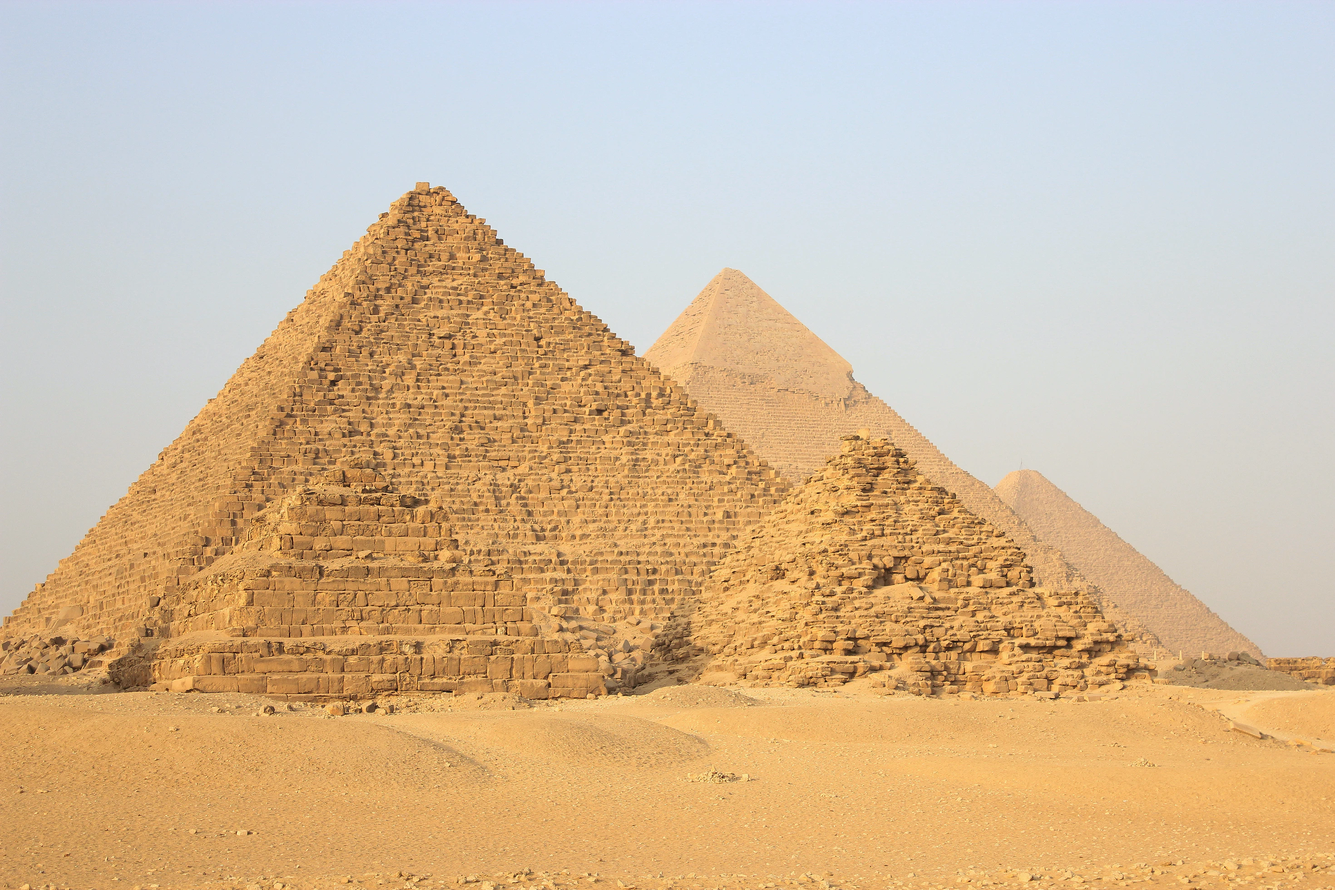
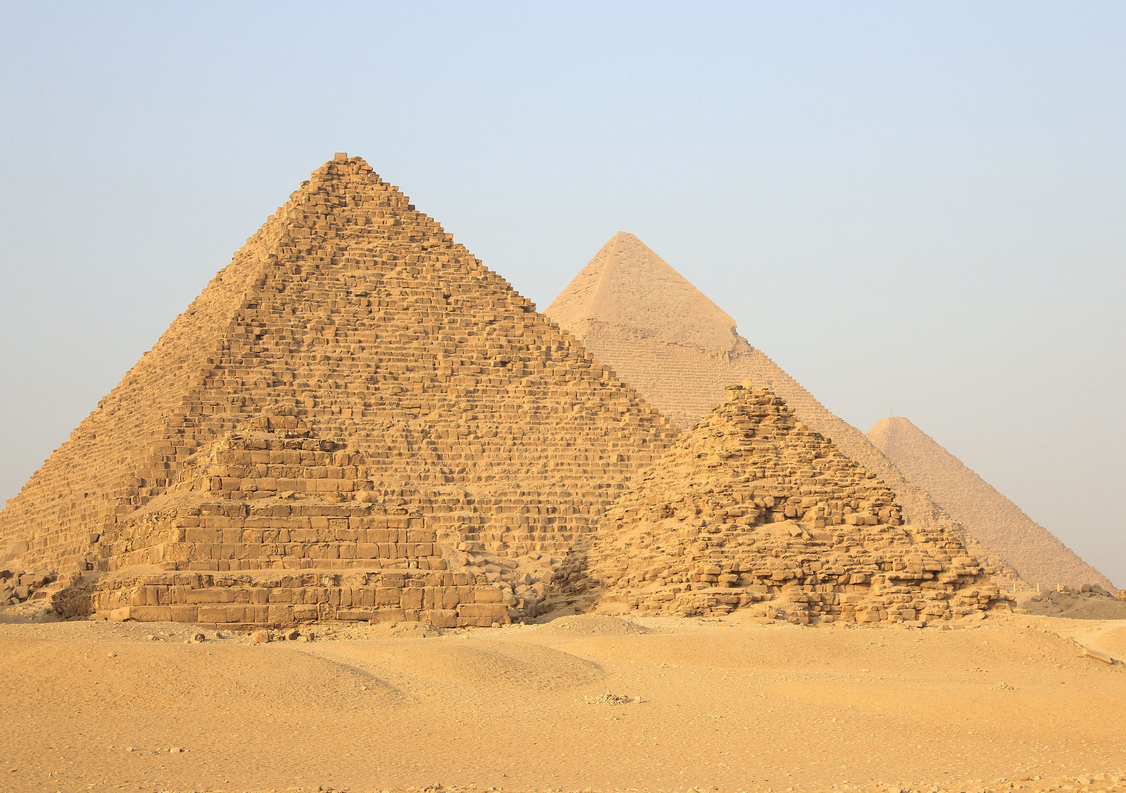
Bilder und Layout
Bilder News normiert und für Web optimiert + kleine Verbesserungen am News-Grid-Layout

Changed region(s): [[0.0, 0.1854, 1.0, 1.0], [0.8383, 0.8341, 0.8694, 0.865]]

diff --git a/index.html b/index.html
@@ -52,17 +52,15 @@
             <!-- svg (brief) einbinden-->
             <a href="mailto:pink@radio.ch"><img src="images/brief.svg" class="brief-front"></a>
             <!-- svg (telefon) einbinden-->
-            <a href="https://wa.me/41791771988"><img src="images/whatsapp.svg" class="whatsapp-front"></a>
+            <a href="https://wa.me/41791771988" target="_blank"><img src="images/whatsapp.svg" class="whatsapp-front"></a>
         </div>
     </header>
 
     <main>
         <!-- Text Startseite -->
         <div class="text-startseite">
-            <h1>News</h1>
-            <h2>Hier kommt ein Text zur Hauptseite</h2>
-            <h2>Hier kommt ein Text zur Hauptseite</h2>
-            <h2>Hier kommt ein Text zur Hauptseite</h2>
+            <h1>Pink News</h1>
+            <h3>Die wichigsten News aus der Region</h3>
         </div>
         <!-- Beginn News-Beiträge -->
         <section>
@@ -119,10 +117,8 @@
         </div>
 
         <div class="text-startseite">
-            <h1>Eventss</h1>
-            <h2>Hier kommt ein Text zu den Events</h2>
-            <h2>Hier kommt ein Text zu den Event</h2>
-            <h2>Hier kommt ein Text zu den Event</h2>
+            <h1>Pink Events</h1>
+            <h3>Kommende Events in der Region</h3>
         </div>
         <!-- Beginn Event-Beiträge -->
         <!-- Slideshow -->
@@ -152,24 +148,27 @@
                 <a href="https://www.fhgr.ch" target="_blank" class="button">zum Event</a>
             </article>
             <article class="news-artikel-hintergrund artikel-2">
-                <img src="images/news1.png" alt="News-1" width="280" height="100">
-                <h2 class="titel-hover">Event</h2>
-                <p>Hier kommt der Lead. Hier steht dann ganz grob um was es bei dem Event geht,
-                    sodass die Leute dann unten auf den Button clicken, damit sie weiterlesen können.</p>
+                <img src="images/streetfood.png" alt="News-1" width="280" height="100">
+                <h2 class="titel-hover">Streetfood Festival</h2>
+                <p>Lokale Food-Trucks präsentieren eine bunte Auswahl von herzhaften Leckerbissen bis zu süßen
+                    Versuchungen. Ein Fest für alle Sinne, das die Straßen mit köstlichen Aromen erfüllt – ein
+                    unvergessliches kulinarisches Erlebnis!.</p>
                 <a href="https://www.fhgr.ch" target="_blank" class="button">zum Event</a>
             </article>
             <article class="news-artikel-hintergrund artikel-3">
-                <img src="images/news1.png" alt="News-1" width="280" height="100">
-                <h2 class="titel-hover">Event</h2>
-                <p>Hier kommt der Lead. Hier steht dann ganz grob um was es bei dem Event geht,
-                    sodass die Leute dann unten auf den Button clicken, damit sie weiterlesen können.</p>
+                <img src="images/konzert.png" alt="News-1" width="280" height="100">
+                <h2 class="titel-hover">Pink Konzert</h2>
+                <p>Erlebe die Hits von Pink Radio live! Ein Konzert voller mitreißender Rhythmen und berührender
+                    Melodien. Tauche ein in eine Nacht voller unvergesslicher Klangerlebnisse. Sei dabei und schaffe
+                    musikalische Erinnerungen!</p>
                 <a href="https://www.fhgr.ch" target="_blank" class="button">zum Event</a>
             </article>
             <article class="news-artikel-hintergrund artikel-4">
-                <img src="images/news1.png" alt="News-1" width="280" height="100">
-                <h2 class="titel-hover">Event</h2>
-                <p>Hier kommt der Lead. Hier steht dann ganz grob um was es bei dem Event geht,
-                    sodass die Leute dann unten auf den Button clicken, damit sie weiterlesen können.</p>
+                <img src="images/weihnachtsmarkt.png" alt="News-1" width="280" height="100">
+                <h2 class="titel-hover">Weihnachtsmarkt</h2>
+                <p>Tauche ein in festliche Stimmung! Unser Weihnachtsmarkt verzaubert mit Leckereien, handgefertigten
+                    Schätzen und gemütlicher Atmosphäre. Genieße Glühwein, erlebe festliche Freude und schaffe
+                    unvergessliche Momente.</p>
                 <a href="https://www.fhgr.ch" target="_blank" class="button">zum Event</a>
             </article>
         </section>

diff --git a/ueber-uns.html b/ueber-uns.html
@@ -52,7 +52,7 @@
             <!-- svg (brief) einbinden-->
             <a href="mailto:pink@radio.ch"><img src="images/brief.svg" class="brief-front"></a>
             <!-- svg (telefon) einbinden-->
-            <a href="https://wa.me/41791771988"><img src="images/whatsapp.svg" class="whatsapp-front"></a>
+            <a href="https://wa.me/41791771988" target="_blank"><img src="images/whatsapp.svg" class="whatsapp-front"></a>
         </div>
     </header>
 
@@ -72,8 +72,8 @@
                         <img src="images/portrait-1.png" alt="News-1" class="original-bild">
                         <img src="images/portrait-1-nase.png" alt="News-1" class="hover-bild">
                     </div>
-                    <h2 class="name-zentrieren">Name</h2>
-                    <p class="funktion-zentrieren">Funktion</p>
+                    <h2 class="name-zentrieren">Nathalie Buser</h2>
+                    <p class="funktion-zentrieren">Programmleiterin</p>
                 </a>
             </article>
             <article class="mitarbeiter">
@@ -82,8 +82,8 @@
                         <img src="images/portrait-2.png" alt="News-1" class="original-bild">
                         <img src="images/portrait-2-hut.png" alt="News-1" class="hover-bild">
                     </div>
-                    <h2 class="name-zentrieren">Name</h2>
-                    <p class="funktion-zentrieren">Funktion</p>
+                    <h2 class="name-zentrieren">Michael Fischer</h2>
+                    <p class="funktion-zentrieren">Redaktionsleiter</p>
                 </a>
             </article>
             <article class="mitarbeiter">
@@ -92,8 +92,8 @@
                         <img src="images/portrait-3.png" alt="News-1" class="original-bild">
                         <img src="images/portrait-3-schnauz.png" alt="News-1" class="hover-bild">
                     </div>
-                    <h2 class="name-zentrieren">Name</h2>
-                    <p class="funktion-zentrieren">Funktion</p>
+                    <h2 class="name-zentrieren">Andreas Müller</h2>
+                    <p class="funktion-zentrieren">Musikredaktor</p>
                 </a>
             </article>
             <article class="mitarbeiter">
@@ -124,6 +124,36 @@
                     </div>
                     <h2 class="name-zentrieren">Name</h2>
                     <p class="funktion-zentrieren">Funktion</p>
+                </a>
+            </article>
+            <article class="mitarbeiter">
+                <a href="ueber-mich.html" class="mitarbeiter-link">
+                    <div class="rote-nase-hovern">
+                        <img src="images/portrait-3.png" alt="News-1" class="original-bild">
+                        <img src="images/portrait-3-schnauz.png" alt="News-1" class="hover-bild">
+                    </div>
+                    <h2 class="name-zentrieren">Andreas Müller</h2>
+                    <p class="funktion-zentrieren">Musikredaktor</p>
+                </a>
+            </article>
+            <article class="mitarbeiter">
+                <a href="ueber-mich.html" class="mitarbeiter-link">
+                    <div class="rote-nase-hovern">
+                        <img src="images/portrait-3.png" alt="News-1" class="original-bild">
+                        <img src="images/portrait-3-schnauz.png" alt="News-1" class="hover-bild">
+                    </div>
+                    <h2 class="name-zentrieren">Andreas Müller</h2>
+                    <p class="funktion-zentrieren">Musikredaktor</p>
+                </a>
+            </article>
+            <article class="mitarbeiter">
+                <a href="ueber-mich.html" class="mitarbeiter-link">
+                    <div class="rote-nase-hovern">
+                        <img src="images/portrait-3.png" alt="News-1" class="original-bild">
+                        <img src="images/portrait-3-schnauz.png" alt="News-1" class="hover-bild">
+                    </div>
+                    <h2 class="name-zentrieren">Andreas Müller</h2>
+                    <p class="funktion-zentrieren">Musikredaktor</p>
                 </a>
             </article>
         </section>

diff --git a/events.html b/events.html
@@ -52,7 +52,8 @@
             <!-- svg (brief) einbinden-->
             <a href="mailto:pink@radio.ch"><img src="images/brief.svg" class="brief-front"></a>
             <!-- svg (telefon) einbinden-->
-            <a href="https://wa.me/41791771988"><img src="images/whatsapp.svg" class="whatsapp-front"></a>
+            <a href="https://wa.me/41791771988" target="_blank"><img src="images/whatsapp.svg"
+                    class="whatsapp-front"></a>
         </div>
     </header>
 
@@ -144,24 +145,28 @@
 
         <section>
             <article class="news-artikel-hintergrund">
-                <img src="images/news1.png" alt="News-1" width="280" height="100">
-                <h2 class="titel-hover">Event</h2>
-                <p>Hier kommt der Lead. Hier steht dann ganz grob um was es in dem Artikel geht,
-                    sodass die Leute dann unten auf den Button clicken, damit sie weiterlesen können.</p>
+                <img src="images/streetfood.png" alt="News-1" width="280" height="100">
+                <h2 class="titel-hover">Streetfood Festival</h2>
+                <p>
+                    Lokale Food-Trucks präsentieren eine bunte Auswahl von herzhaften Leckerbissen bis zu süßen
+                    Versuchungen. Ein Fest für alle Sinne, das die Straßen mit köstlichen Aromen erfüllt – ein
+                    unvergessliches kulinarisches Erlebnis!</p>
                 <a href="event.html" class="button">zum Event</a>
             </article>
             <article class="news-artikel-hintergrund">
-                <img src="images/news1.png" alt="News-1" width="280" height="100">
-                <h2 class="titel-hover">Event</h2>
-                <p>Hier kommt der Lead. Hier steht dann ganz grob um was es in dem Artikel geht,
-                    sodass die Leute dann unten auf den Button clicken, damit sie weiterlesen können.</p>
+                <img src="images/konzert.png" alt="News-1" width="280" height="100">
+                <h2 class="titel-hover">Pink Konzert</h2>
+                <p>Erlebe die Hits von Pink Radio live! Ein Konzert voller mitreißender Rhythmen und berührender
+                    Melodien. Tauche ein in eine Nacht voller unvergesslicher Klangerlebnisse. Sei dabei und schaffe
+                    musikalische Erinnerungen!</p>
                 <a href="event.html" class="button">zum Event</a>
             </article>
             <article class="news-artikel-hintergrund">
-                <img src="images/news1.png" alt="News-1" width="280" height="100">
-                <h2 class="titel-hover">Event</h2>
-                <p>Hier kommt der Lead. Hier steht dann ganz grob um was es in dem Artikel geht,
-                    sodass die Leute dann unten auf den Button clicken, damit sie weiterlesen können.</p>
+                <img src="images/weihnachtsmarkt.png" alt="News-1" width="280" height="100">
+                <h2 class="titel-hover">Weihnachtsmarkt</h2>
+                <p>Tauche ein in festliche Stimmung! Unser Weihnachtsmarkt verzaubert mit Leckereien, handgefertigten
+                    Schätzen und gemütlicher Atmosphäre. Genieße Glühwein, erlebe festliche Freude und schaffe
+                    unvergessliche Momente.</p>
                 <a href="event.html" class="button">zum Event</a>
             </article>
             <article class="news-artikel-hintergrund">

diff --git a/js/news.js b/js/news.js
@@ -52,10 +52,9 @@ document.addEventListener("DOMContentLoaded", function() {
         <a href="artikel.html" class="button">zum Artikel</a>
       </article>
       <article class="news-artikel-hintergrund">
-        <img src="images/news1.png" alt="News-1" width="280" height="100">
-        <h2 class="titel-hover">Schlagzeile</h2>
-        <p>Hier kommt der Lead. Hier steht dann ganz grob um was es in dem Artikel geht,
-            sodass die Leute dann unten auf den Button clicken, damit sie weiterlesen können.</p>
+        <img src="images/shopping.png" alt="News-1" width="280" height="100">
+        <h2 class="titel-hover">Der Boom des Online-Shoppings</h2>
+        <p>Der Trend zum Online-Shopping erreicht immer neue Höhen, da Verbraucher bequeme Einkaufsmöglichkeiten von zu Hause aus schätzen.</p>
         <a href="artikel.html" class="button">zum Artikel</a>
       </article>
         `;

diff --git a/css/style.css b/css/style.css
@@ -26,7 +26,7 @@ h2 {
 }
 
 h3 {
-    font: 1em;
+    font-size: 1.5em;
     ;
 }
 
@@ -238,7 +238,7 @@ main {
 
 /* Abstand zwischen Startseiten-Text und News-Beiträgen */
 .text-startseite {
-    margin-bottom: 60px;
+    margin-bottom: 30px;
 }
 
 /* mehr-laden Button zentrieren */
@@ -455,7 +455,8 @@ main {
     row-gap: 30px;
     column-gap: 30px;
     box-sizing: border-box;
-    padding: 20px;
+    padding-top: 30px;
+    padding-bottom: 30px;
 }
 
 /* Styling Dropdown-Menu */

diff --git a/artikel.html b/artikel.html
@@ -52,7 +52,7 @@
             <!-- svg (brief) einbinden-->
             <a href="mailto:pink@radio.ch"><img src="images/brief.svg" class="brief-front"></a>
             <!-- svg (telefon) einbinden-->
-            <a href="https://wa.me/41791771988"><img src="images/whatsapp.svg" class="whatsapp-front"></a>
+            <a href="https://wa.me/41791771988" target="_blank"><img src="images/whatsapp.svg" class="whatsapp-front"></a>
         </div>
     </header>
 

diff --git a/event.html b/event.html
@@ -52,7 +52,7 @@
             <!-- svg (brief) einbinden-->
             <a href="mailto:pink@radio.ch"><img src="images/brief.svg" class="brief-front"></a>
             <!-- svg (telefon) einbinden-->
-            <a href="https://wa.me/41791771988"><img src="images/whatsapp.svg" class="whatsapp-front"></a>
+            <a href="https://wa.me/41791771988" target="_blank"><img src="images/whatsapp.svg" class="whatsapp-front"></a>
         </div>
     </header>
 

diff --git a/news.html b/news.html
@@ -52,7 +52,7 @@
             <!-- svg (brief) einbinden-->
             <a href="mailto:pink@radio.ch"><img src="images/brief.svg" class="brief-front"></a>
             <!-- svg (telefon) einbinden-->
-            <a href="https://wa.me/41791771988"><img src="images/whatsapp.svg" class="whatsapp-front"></a>
+            <a href="https://wa.me/41791771988" target="_blank"><img src="images/whatsapp.svg" class="whatsapp-front"></a>
         </div>
     </header>
 

diff --git a/ueber-mich.html b/ueber-mich.html
@@ -52,7 +52,7 @@
             <!-- svg (brief) einbinden-->
             <a href="mailto:pink@radio.ch"><img src="images/brief.svg" class="brief-front"></a>
             <!-- svg (telefon) einbinden-->
-            <a href="https://wa.me/41791771988"><img src="images/whatsapp.svg" class="whatsapp-front"></a>
+            <a href="https://wa.me/41791771988" target="_blank"><img src="images/whatsapp.svg" class="whatsapp-front"></a>
         </div>
     </header>
 
